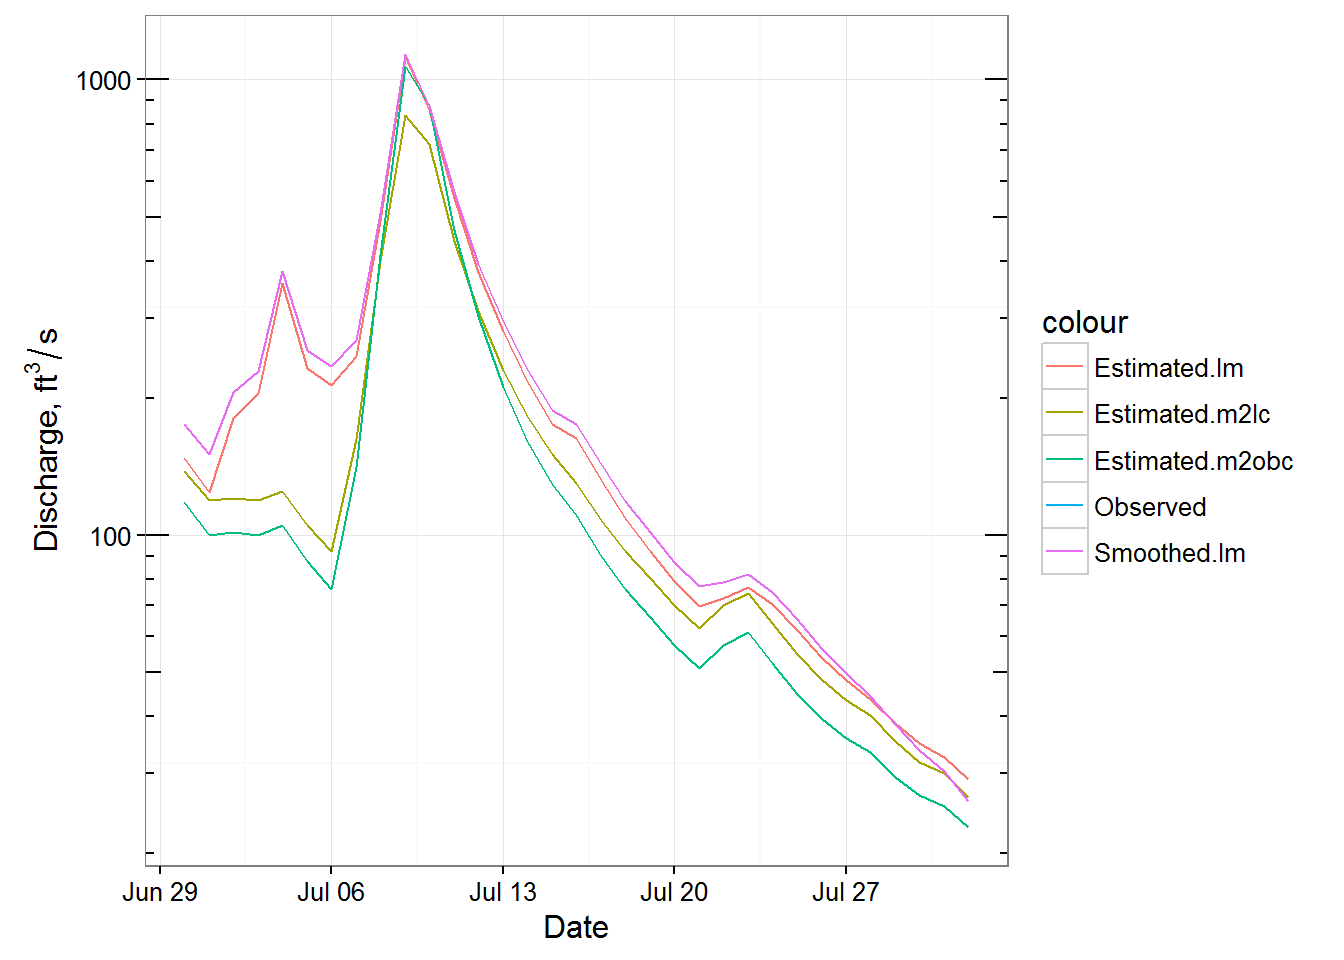
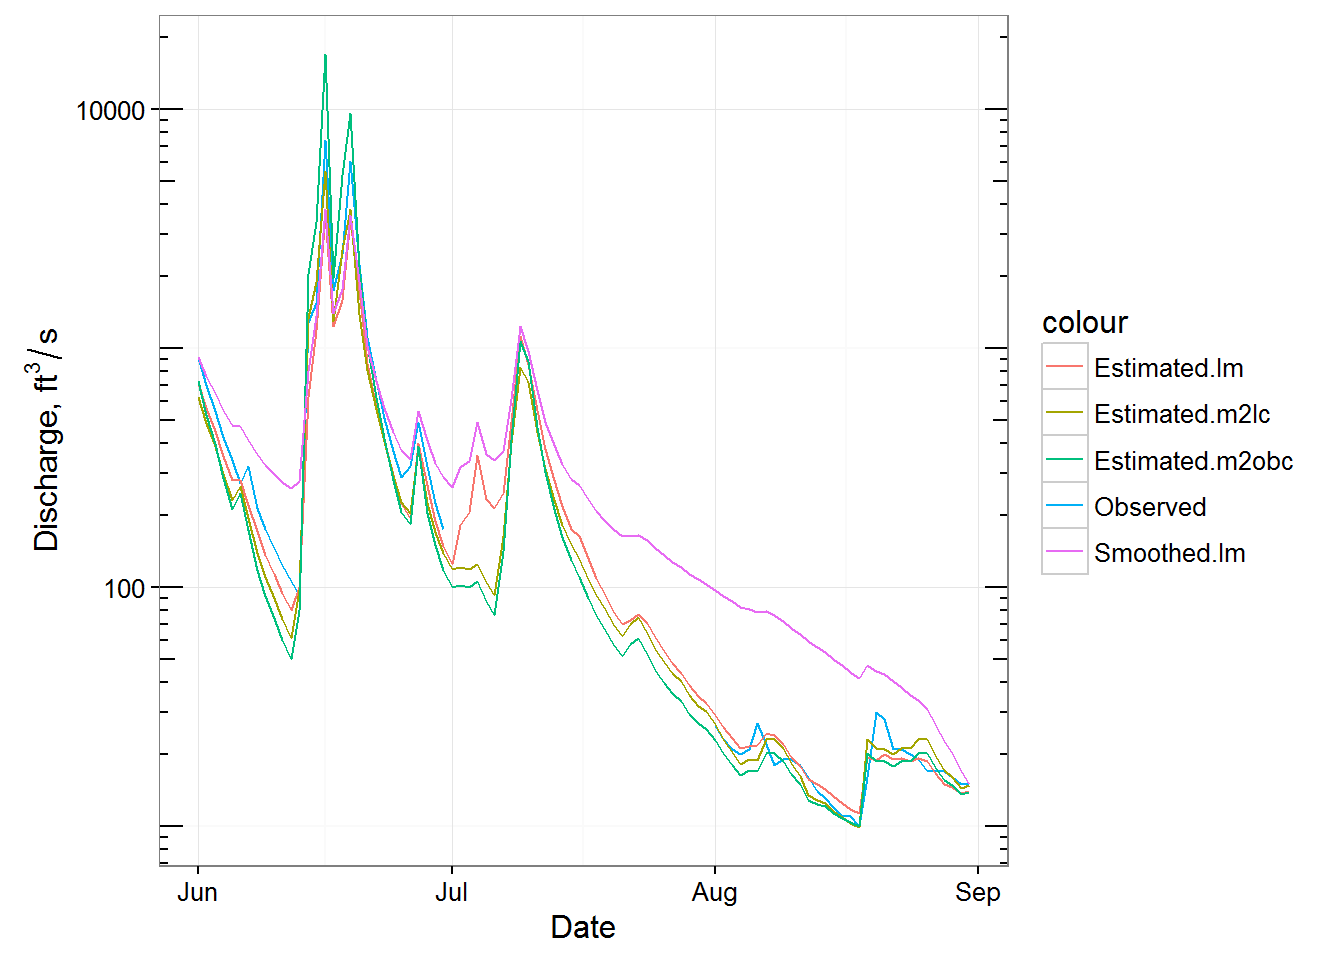
Consistent x scales.

diff --git a/content/peakFlow.md b/content/peakFlow.md
@@ -419,7 +419,7 @@ pLmEst <- ggplot(data = comp5680, aes(x = Date)) +
   annotation_logticks(sides = "rl") +
   labs(x = "Date", y = expression(paste(Discharge, ", ", ft^{3}/s))) +
   theme_bw() + 
-  scale_x_date(limits = c(as.Date("2015-01-01"), as.Date("2015-12-30"))) +
+  scale_x_date(limits = c(as.Date("2015-06-01"), as.Date("2015-08-31"))) +
   scale_y_log10(limits = c(10, 2000))
 
 pLmEst
@@ -441,7 +441,7 @@ adjResid <- function(x, y, dates) {
 }
 
 #get a subset of the data to "smooth" that starts one day before and ends one day after the missing period
-forSmooth <- filter(comp5680, Date >= as.Date("2015-06-30") & Date <= as.Date("2015-08-01"))
+forSmooth <- filter(comp5680, Date >= as.Date("2015-06-01") & Date <= as.Date("2015-08-31"))
 
 #apply the function to the data
 forSmooth$Smoothed.lm <- adjResid(x = forSmooth$Estimated.lm, 
